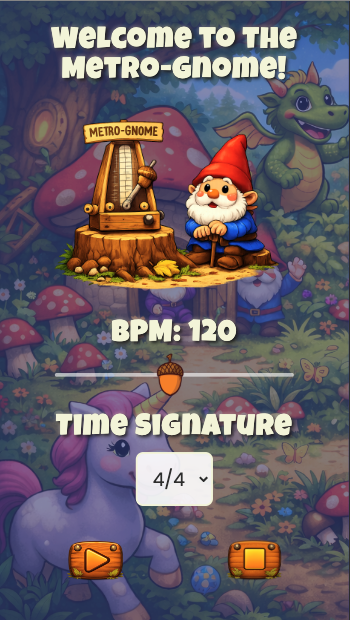
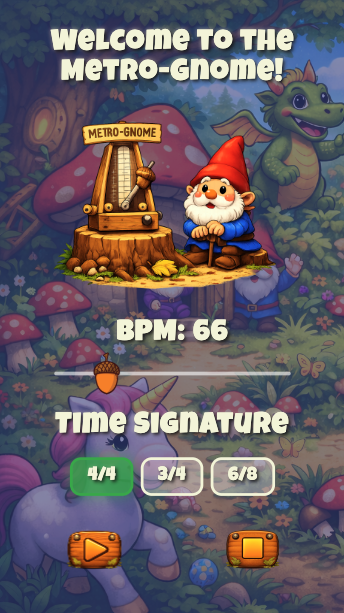
removed unnecessary CSS from deleted input field and select menu

diff --git a/src/style.css b/src/style.css
@@ -102,7 +102,7 @@
   }
   
   /* =====================================================
-     INPUT FIELDS
+     INPUT / SLIDER
      ===================================================== */
   .input-group {
     margin-bottom: 1.5rem;
@@ -115,26 +115,7 @@
     font-size: 2rem;
     font-family: 'Luckiest Guy', cursive;
   }
-  
-  .input-group input:not([type="range"]),
-  .input-group select {
-    padding: 0.75rem;
-    font-size: 1.25rem;
-    font-family: 'Poppins', sans-serif;
-    border: 2px solid #F5F5DC;
-    border-radius: 8px;
-    background: rgba(255, 255, 255, 0.9);
-    color: #333;
-    text-align: center;
-    margin: 0 auto;
-  }
-  
-  .input-group input:not([type="range"]):focus,
-  .input-group select:focus {
-    outline: none;
-    border-color: rgba(76, 175, 80, 0.8);
-    box-shadow: 0 0 8px rgba(76, 175, 80, 0.5);
-  }
+
   
   .slider-container {
     display: flex;
